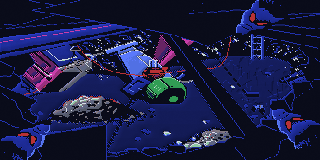
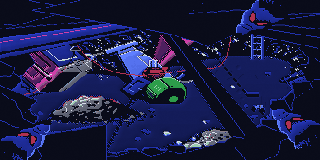
Pass 6: dial back wear (fewer, gentler marks; no bright scratches); note in the art principles
Claude-Session: https://claude.ai/code/session_01KMMpWo1pAxVCtPqbSi1RBM

diff --git a/tools/paint/restyle.py b/tools/paint/restyle.py
@@ -227,7 +227,7 @@ def restyle(path, rows=160, top=10, height=190, seed=3, light=0.07, edge=0.12, g
     worn_f = (class_map == 3).astype(np.float32)
     worn_in = (box_blur(worn_f, 1) > 0.99) & (lum(base) > 28)       # inside worn regions, off the dark outlines
     rngw = np.random.default_rng(20261108)
-    n_d, n_s, n_g = int(h * w / 105), int(h * w / 60), int(h * w / 330)
+    n_d, n_s, n_g = int(h * w / 520), int(h * w / 520), int(h * w / 800)      # few marks: pass-4 density, not pass-5
     for _ in range(n_d):                                             # dents: dark upper-left, lit lower-right inside the dent
         cx_, cy_ = int(rngw.integers(0, w)), int(rngw.integers(0, h))
         r = float(rngw.uniform(1.8, 3.6))
@@ -238,11 +238,12 @@ def restyle(path, rows=160, top=10, height=190, seed=3, light=0.07, edge=0.12, g
                 dx_, dy_ = (xx_ - cx_) / r, (yy_ - cy_) / (r * 0.8)
                 d2 = dx_ * dx_ + dy_ * dy_
                 if d2 < 1.0 and worn_in[yy_, xx_]:
-                    out[yy_, xx_] *= 1 + 0.42 * (dx_ + dy_) * 0.7071 * (1 - 0.3 * d2)
+                    out[yy_, xx_] *= 1 + 0.28 * (dx_ + dy_) * 0.7071 * (1 - 0.3 * d2)
     for _ in range(n_s):                                             # scratches
         sx, sy = int(rngw.integers(0, w)), int(rngw.integers(0, h))
-        ang, ln = float(rngw.uniform(0, 3.1416)), int(rngw.integers(4, 12))
-        k_ = 1.32 if rngw.random() < 0.5 else 0.7
+        ang, ln = float(rngw.uniform(0, 3.1416)), int(rngw.integers(3, 8))
+        k_ = 0.82                                                 # dark scratches only: no bright ones (they read as vapour)
+        rngw.random()
         if not worn_in[sy, sx]:
             continue
         for t_ in range(ln):

diff --git a/docs/ART_PRINCIPLES.md b/docs/ART_PRINCIPLES.md
@@ -30,6 +30,7 @@ Rules of thumb:
 - The same object looks **identical** in every room where it appears (same dents, rust, colours). Technique: paint it once, or share
   the palette and composite only the real differences (see `build_act1.py`, ship yard).
 - Marks (dents, scratches, grime) come from a **fixed pattern tied to picture position**, never from the order of regions.
+- Wear stays **sparse and subtle** (agreed after a review): a few dents, a few dark scratches, a little grime. **No bright or white scratches** (they read as vapour). If an object looks 'made of damage', there are too many marks.
 - One palette per picture (112 colours, no dither); pictures that show the same place share a palette.
 
 ## 4. Interface and layout
